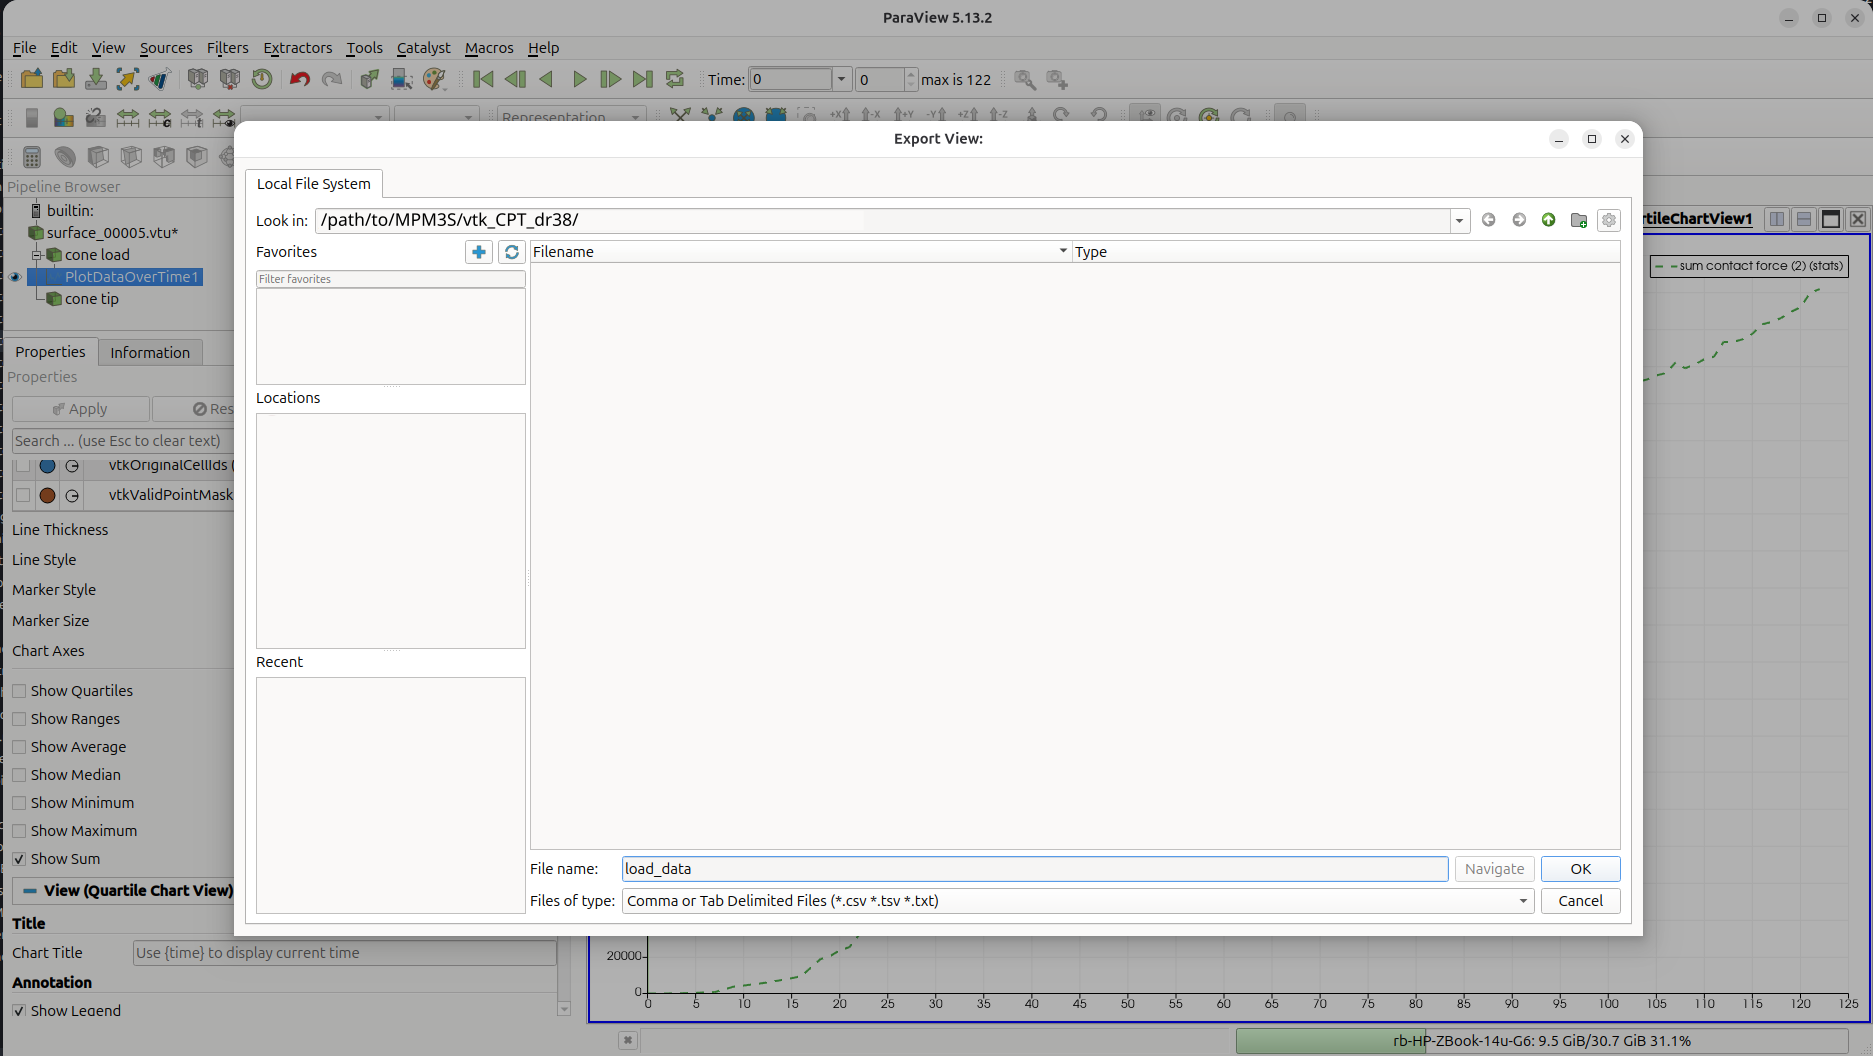
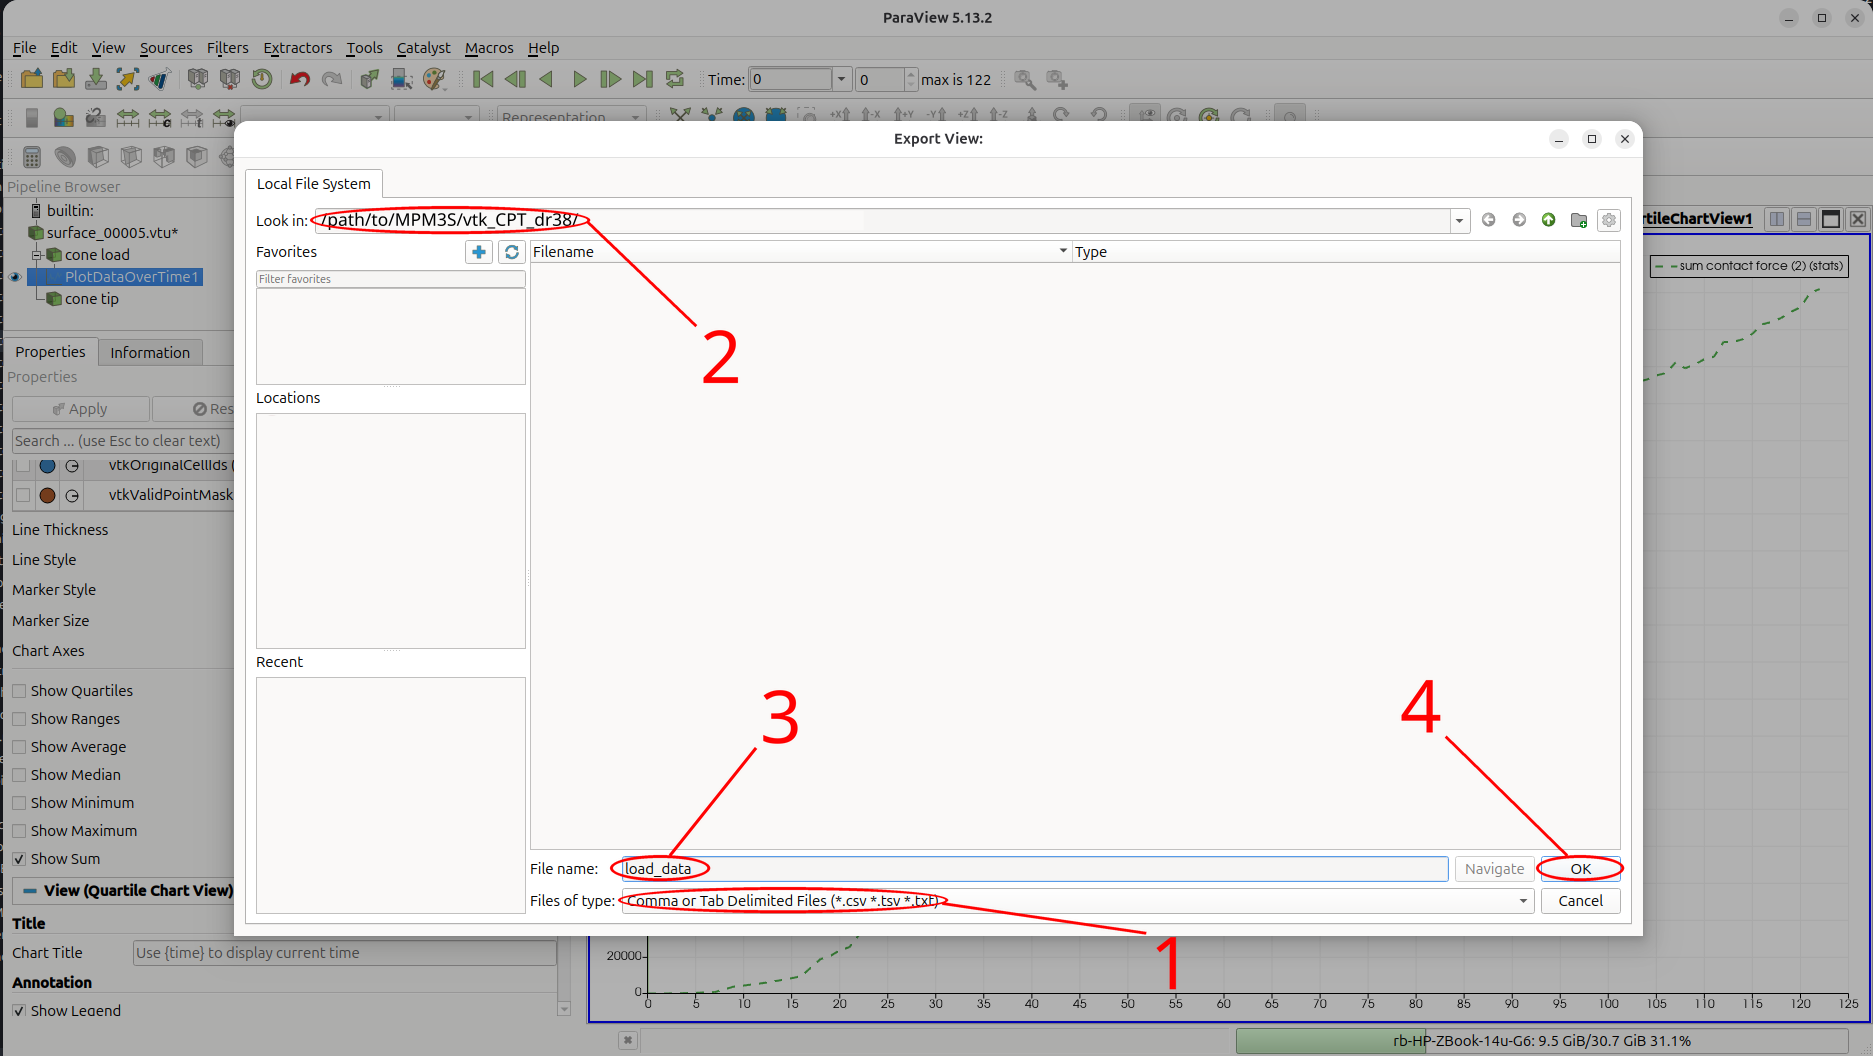
updates to images

diff --git a/docs/javascripts/input_builder_notes.js b/docs/javascripts/input_builder_notes.js
@@ -15,12 +15,12 @@ window.MPM3S_NOTES = {
   "material points › layers": "Material layer definition. Layer 1 is the top.",
   "material points › layers › thickness": "Depth of the layer.",
   "material points › layers › material": "Define the constitutive model and its properties.",
-  "material points › layers › material › type": "Constitutive model. elastic: E, nu, density. von mises: E, nu, yield stress, density. willam warnke: E, nu, friction angle, dilation angle, cohesion, density.",
+  "material points › layers › material › type": "Constitutive model.",
   "material points › layers › material › E": "Young's modulus",
   "material points › layers › material › nu": "Poisson's ratio",
   "material points › layers › material › yield stress": "Radius of the von Mises cylinder, √(2J₂) at yield - not the uniaxial yield stress. Uniaxial σy = √(3/2) × this, pure shear k = this / √2; give σy or k instead and it is converted.",
   "material points › layers › material › friction angle": "Friction angle φ of the Willam-Warnke yield surface.",
-  "material points › layers › material › dilation angle": "Dilation angle ψ; sets the plastic potential, so the flow is non-associated even when ψ = φ.",
+  "material points › layers › material › dilation angle": "Dilation angle ψ of the Drucker-Prager plastic potential, which sets the flow; the flow is non-associated even when ψ = φ, because the yield surface has a Willam-Warnke section.",
   "material points › layers › material › cohesion": "Cohesion c of the yield surface.",
   "material points › layers › material › density": "Use the buoyant density for submerged soil.",
   "material points › layers › material › E overburden": "Makes the stiffness grow with depth.",

diff --git a/docs/docs/TutorialProblems/Tutorial_3.md b/docs/docs/TutorialProblems/Tutorial_3.md
@@ -450,7 +450,7 @@ The reaction force in `rigid_body.csv` includes the friction along the sleeve. T
 
 <div class="walkthrough" markdown>
 <div markdown>
-**1. Open the cone.** *File → Open*, go to `vtk_CPT_dr32`, select the `surface_..vtu` series on its own, click *OK* and then *Apply*. The cone appears in the render view.
+**1. Open the cone.** *File → Open*, go to `vtk_CPT_dr32`, select the `surface_..vtu` series on its own, click *OK* and then *Apply* (1). The cone appears in the render view.
 </div>
 <div markdown>
 ![The cone surface after Apply.](../../img/Tutorial_3/CPT_plot1.png){ #fig-cpt-tip-1 }
@@ -459,7 +459,7 @@ The reaction force in `rigid_body.csv` includes the friction along the sleeve. T
 
 <div class="walkthrough" markdown>
 <div markdown>
-**2. Select the triangles of the conical tip.** Click *Select Cells On* in the render-view toolbar (or press `S`) and drag a box around the conical tip, so that its triangles are highlighted in pink and the cylindrical sleeve is not. Hold `Ctrl` and drag again to add any triangles that were missed.
+**2. Select the triangles of the conical tip.** Click *Select Cells On* (1) in the render-view toolbar (or press `S`) and drag a box around the conical tip (2), so that its triangles are highlighted in pink and the cylindrical sleeve is not. Hold `Ctrl` and drag again to add any triangles that were missed.
 </div>
 <div markdown>
 ![The triangles of the conical tip selected and highlighted in pink.](../../img/Tutorial_3/CPT_plot2.png){ #fig-cpt-tip-2 }
@@ -468,7 +468,7 @@ The reaction force in `rigid_body.csv` includes the friction along the sleeve. T
 
 <div class="walkthrough" markdown>
 <div markdown>
-**3. Find the Extract Selection filter.** Open the *Filters* menu. `Ctrl` + `Space` opens the same filter search from anywhere in ParaView.
+**3. Find the Extract Selection filter.** Open the *Filters* menu and choose *Search...* (1). `Ctrl` + `Space` opens the same filter search from anywhere in ParaView.
 </div>
 <div markdown>
 ![The Filters menu.](../../img/Tutorial_3/CPT_plot3.png){ #fig-cpt-tip-3 }
@@ -477,7 +477,7 @@ The reaction force in `rigid_body.csv` includes the friction along the sleeve. T
 
 <div class="walkthrough" markdown>
 <div markdown>
-**4. Extract the selection.** Type `extract sel`, choose *Extract Selection* and press `Enter`.
+**4. Extract the selection.** Type `extract sel` (1), choose *Extract Selection* (2) and press `Enter`.
 </div>
 <div markdown>
 ![The filter search with Extract Selection highlighted.](../../img/Tutorial_3/CPT_plot4.png){ #fig-cpt-tip-4 }
@@ -495,7 +495,7 @@ The reaction force in `rigid_body.csv` includes the friction along the sleeve. T
 
 <div class="walkthrough" markdown>
 <div markdown>
-**6. Extract the tip point and name the two extracts.** Apply *Extract Selection* again to extract the tip point. Right-click each extract in the *Pipeline Browser*, choose *Rename*, and call the triangles `cone load` and the point `cone tip`.
+**6. Extract the tip point and name the two extracts.** Apply *Extract Selection* again to extract the tip point. Right-click each extract in the *Pipeline Browser* (1), choose *Rename* (2), and call the triangles `cone load` and the point `cone tip`.
 </div>
 <div markdown>
 ![Renaming the second extract in the Pipeline Browser.](../../img/Tutorial_3/CPT_plot6.png){ #fig-cpt-tip-6 }
@@ -504,7 +504,7 @@ The reaction force in `rigid_body.csv` includes the friction along the sleeve. T
 
 <div class="walkthrough" markdown>
 <div markdown>
-**7. Check the extracts.** Hide `surface_..vtu` with its eye icon. Only the conical tip is left.
+**7. Check the extracts.** Hide `surface_..vtu` with its eye icon (1). Only the conical tip is left.
 </div>
 <div markdown>
 ![The cone load and cone tip extracts, with the full surface hidden.](../../img/Tutorial_3/CPT_plot7.png){ #fig-cpt-tip-7 }
@@ -513,7 +513,7 @@ The reaction force in `rigid_body.csv` includes the friction along the sleeve. T
 
 <div class="walkthrough" markdown>
 <div markdown>
-**8. Open a layout for the plots.** Click `+` beside *Layout #1* to open *Layout #2* and choose *Line Chart View*.
+**8. Open a layout for the plots.** Click `+` (1) beside *Layout #1* to open *Layout #2* and choose *Line Chart View* (2).
 </div>
 <div markdown>
 ![A new layout with the list of views.](../../img/Tutorial_3/CPT_plot8.png){ #fig-cpt-tip-8 }
@@ -522,7 +522,7 @@ The reaction force in `rigid_body.csv` includes the friction along the sleeve. T
 
 <div class="walkthrough" markdown>
 <div markdown>
-**9. Plot the load on the tip over time.** Select `cone load`, go to `Filters`, then `Search`, and then type `plot da` and choose *Plot Data Over Time*.
+**9. Plot the load on the tip over time.** Select `cone load` (1), go to `Filters`, then `Search`, and then type `plot da` (2) and choose *Plot Data Over Time* (3).
 </div>
 <div markdown>
 ![The filter search with Plot Data Over Time highlighted.](../../img/Tutorial_3/CPT_plot9.png){ #fig-cpt-tip-9 }
@@ -531,7 +531,7 @@ The reaction force in `rigid_body.csv` includes the friction along the sleeve. T
 
 <div class="walkthrough" markdown>
 <div markdown>
-**10. Use the cell data.** The contact force is stored on the triangles, so set *Field Association* to *Cells*. Keep *Only Report Selection Statistics* ticked and click *Apply*. ParaView reads every output step, which takes a moment, and draws a quartile chart.
+**10. Use the cell data.** The contact force is stored on the triangles, so set *Field Association* to *Cells* (1). Keep *Only Report Selection Statistics* ticked and click *Apply* (2). ParaView reads every output step, which takes a moment, and draws a quartile chart.
 </div>
 <div markdown>
 ![Choosing Cells for the Field Association.](../../img/Tutorial_3/CPT_plot10.png){ #fig-cpt-tip-10 }
@@ -540,7 +540,7 @@ The reaction force in `rigid_body.csv` includes the friction along the sleeve. T
 
 <div class="walkthrough" markdown>
 <div markdown>
-**11. Choose the vertical force.** In *Series Parameters*, untick every series except `contact force (2) (stats)`, the $z$ component. The chart shows its average over the tip triangles, with the spread between them shaded.
+**11. Choose the vertical force.** In *Series Parameters*, untick every series except `contact force (2) (stats)` (1), the $z$ component. The chart shows its average over the tip triangles, with the spread between them shaded.
 </div>
 <div markdown>
 ![The average vertical contact force on the tip triangles, with the quartiles shaded.](../../img/Tutorial_3/CPT_plot11.png){ #fig-cpt-tip-11 }
@@ -549,7 +549,7 @@ The reaction force in `rigid_body.csv` includes the friction along the sleeve. T
 
 <div class="walkthrough" markdown>
 <div markdown>
-**12. Show the total.** Further down, untick *Show Quartiles* and *Show Average* and tick *Show Sum*. `sum contact force (2) (stats)` is the vertical force on the tip of the quarter cone, which grows steadily as the cone penetrates.
+**12. Show the total.** Further down, untick *Show Quartiles* (1) and *Show Average* (2) and tick *Show Sum* (3). `sum contact force (2) (stats)` is the vertical force on the tip of the quarter cone, which grows steadily as the cone penetrates.
 </div>
 <div markdown>
 ![The summed vertical contact force on the tip against output step.](../../img/Tutorial_3/CPT_plot12.png){ #fig-cpt-tip-12 }
@@ -558,7 +558,7 @@ The reaction force in `rigid_body.csv` includes the friction along the sleeve. T
 
 <div class="walkthrough" markdown>
 <div markdown>
-**13. Export the load.** *File → Export View*, choose *Comma or Tab Delimited Files* and save the chart in `vtk_CPT_dr32` as `load_data.csv`.
+**13. Export the load.** *File → Export View*, choose *Comma or Tab Delimited Files* (1) and save the chart in `vtk_CPT_dr32` (2) as `load_data.csv` (3), then click *OK* (4).
 </div>
 <div markdown>
 ![The Export View dialog, saving load_data.csv.](../../img/Tutorial_3/CPT_plot13.png){ #fig-cpt-tip-13 }
@@ -567,7 +567,7 @@ The reaction force in `rigid_body.csv` includes the friction along the sleeve. T
 
 <div class="walkthrough" markdown>
 <div markdown>
-**14. Plot the tip height.** Select `cone tip` and apply *Plot Data Over Time* again, keeping *Field Association* as *Points*, and show only `Z (stats)`. The tip height is $0$ in stage 1, jumps to the soil surface at about $19.85$ m when the cone is placed at the start of stage 2, and then falls steadily as the cone is pushed down. Export it in the same way, as `position_data.csv` in `vtk_CPT_dr32`.
+**14. Plot the tip height.** Select `cone tip` (1) and apply *Plot Data Over Time* again, keeping *Field Association* as *Points* (2), and show only `Z (stats)` (3). The tip height is $0$ in stage 1, jumps to the soil surface at about $19.85$ m when the cone is placed at the start of stage 2, and then falls steadily as the cone is pushed down. Export it in the same way, as `position_data.csv` in `vtk_CPT_dr32`.
 </div>
 <div markdown>
 ![The height of the cone tip against output step.](../../img/Tutorial_3/CPT_plot14.png){ #fig-cpt-tip-14 }
